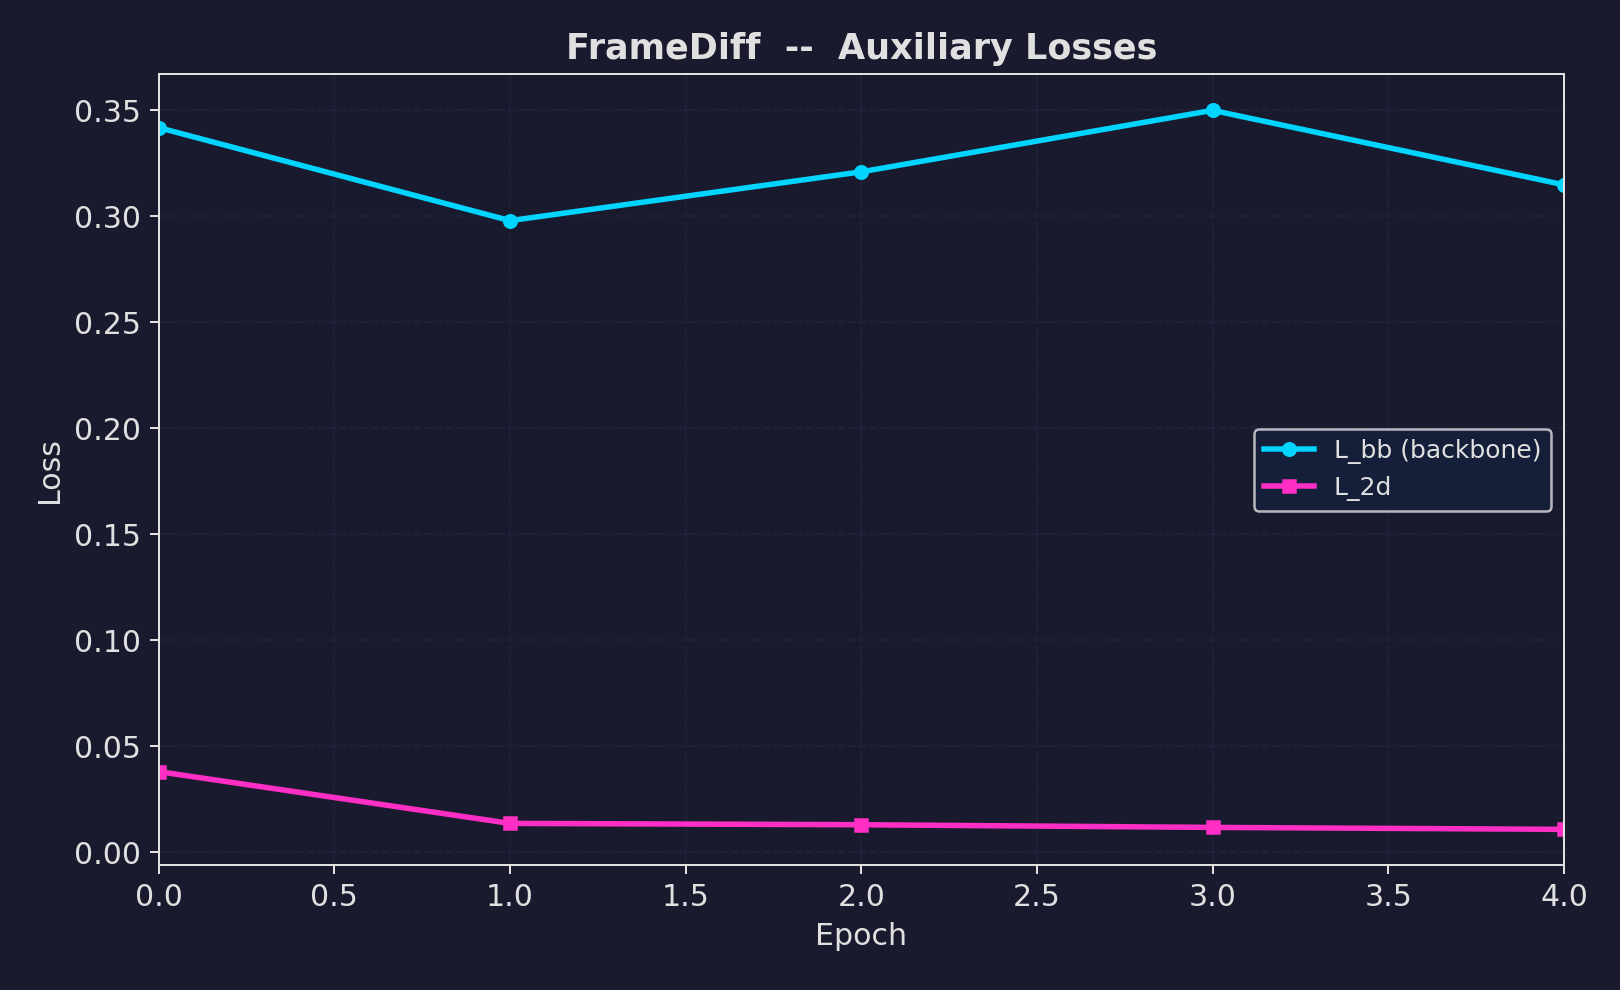
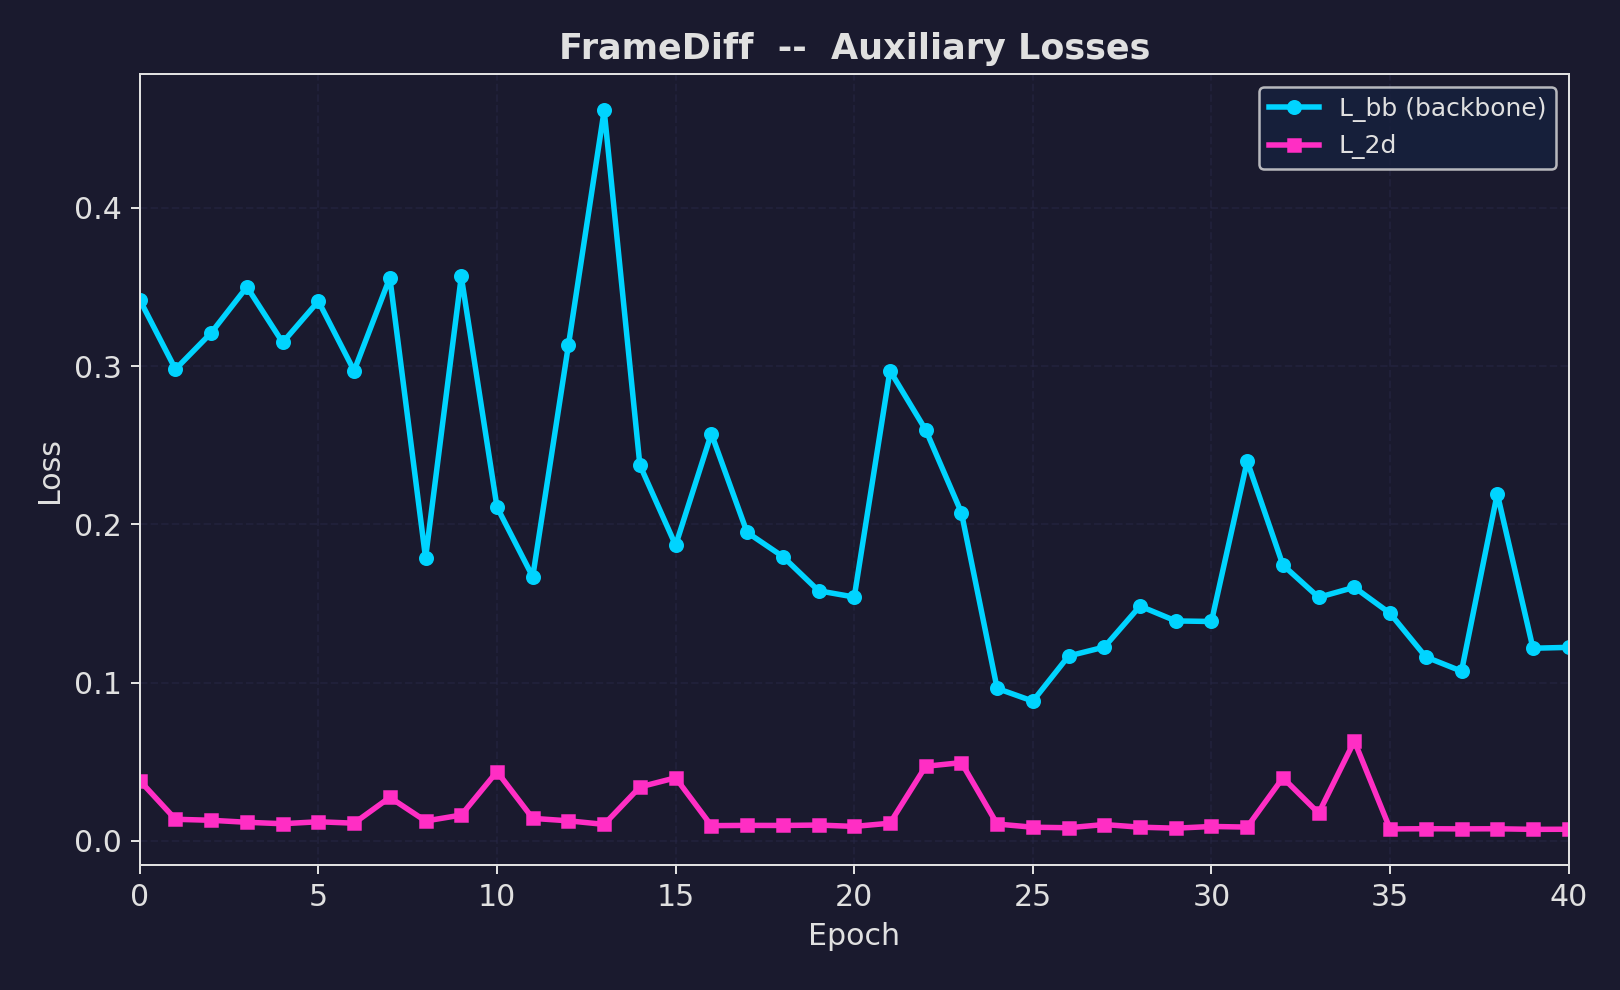
Update FrameDiff: 40 epochs, loss curves, first generation results

diff --git a/minifold.html b/minifold.html
@@ -268,18 +268,42 @@
         </thead>
         <tbody>
           <tr><td>0</td><td>0.630</td><td>0.446</td><td>1.171</td><td>7.02</td><td>64.3</td><td>0.867</td></tr>
-          <tr><td>1</td><td>0.479</td><td>0.400</td><td>0.957</td><td>6.02</td><td>60.1</td><td>0.793</td></tr>
-          <tr><td>2</td><td>0.467</td><td>0.220</td><td>0.770</td><td>5.92</td><td>139.6</td><td>0.573</td></tr>
-          <tr><td>3</td><td>0.460</td><td>0.151</td><td>0.701</td><td>5.83</td><td>163.2</td><td>0.522</td></tr>
-          <tr><td>4</td><td>0.450</td><td>0.145</td><td>0.676</td><td>5.76</td><td>163.6</td><td>0.525</td></tr>
           <tr><td>5</td><td>0.413</td><td>0.143</td><td>0.645</td><td>5.50</td><td>163.7</td><td>0.496</td></tr>
-          <tr><td>6</td><td>0.377</td><td>0.141</td><td>0.595</td><td>5.23</td><td>163.9</td><td>0.445</td></tr>
-          <tr style="font-weight:bold"><td>7</td><td>0.377</td><td>0.137</td><td>0.610</td><td>5.18</td><td>164.2</td><td>0.454</td></tr>
+          <tr><td>10</td><td>0.352</td><td>0.131</td><td>0.546</td><td>5.01</td><td>164.6</td><td>0.426</td></tr>
+          <tr><td>15</td><td>0.333</td><td>0.127</td><td>0.517</td><td>4.87</td><td>164.9</td><td>0.425</td></tr>
+          <tr><td>20</td><td>0.321</td><td>0.121</td><td>0.483</td><td>4.72</td><td>165.4</td><td>0.385</td></tr>
+          <tr><td>25</td><td>0.424</td><td>0.117</td><td>0.565</td><td>4.60</td><td>165.7</td><td>0.364</td></tr>
+          <tr><td>30</td><td>0.281</td><td>0.115</td><td>0.432</td><td>4.51</td><td>165.9</td><td>0.349</td></tr>
+          <tr><td>35</td><td>0.286</td><td>0.111</td><td>0.434</td><td>4.44</td><td>166.2</td><td>0.339</td></tr>
+          <tr style="font-weight:bold"><td>40</td><td>0.258</td><td>0.110</td><td>0.400</td><td>4.38</td><td>166.2</td><td>0.319</td></tr>
         </tbody>
       </table>
       </div>
       <p style="color:var(--text-secondary); font-size:13px; margin-top:8px; margin-bottom:0">
-        <em>Last updated: Mar 16, 2026 at 2:45 AM PST. Training ongoing (job 32675144).</em>
+        <em>Last updated: Mar 16, 2026 at 8:10 AM PST. 41 epochs complete, best val=0.319 (E32). Job hit 6h wall clock.</em>
+      </p>
+    </div>
+
+    <div class="timeline-section">
+      <h3 style="margin-top:0">First Generation Results (Epoch 32)</h3>
+      <p>Generated 16 backbones (8&times;L80, 4&times;L120, 4&times;L200) using 200-step DDPM reverse diffusion with self-conditioning.</p>
+      <div style="overflow-x:auto">
+      <table class="metrics-table" style="width:100%">
+        <thead>
+          <tr><th>Length</th><th>Samples</th><th>Mean Ca-Ca (A)</th><th>Ideal Ca-Ca</th><th>Rg (A)</th><th>Status</th></tr>
+        </thead>
+        <tbody>
+          <tr><td>80</td><td>8</td><td>5.2 &ndash; 9.0</td><td>3.8</td><td>53 &ndash; 85</td><td style="color:#f0ad4e">Coarse fold topology, local geometry needs work</td></tr>
+          <tr><td>120</td><td>4</td><td>5.8 &ndash; 10.9</td><td>3.8</td><td>70 &ndash; 90</td><td style="color:#f0ad4e">Extended chains, not yet compact</td></tr>
+          <tr><td>200</td><td>4</td><td>6.7 &ndash; 8.6</td><td>3.8</td><td>83 &ndash; 92</td><td style="color:#f0ad4e">Overly extended, needs more training</td></tr>
+        </tbody>
+      </table>
+      </div>
+      <p style="color:var(--text-secondary); font-size:13px; margin-top:8px; margin-bottom:0">
+        Ca-Ca bond lengths are ~1.5&ndash;2.5x the ideal 3.8 A, indicating the model has learned rough structure
+        but needs more training and better reverse diffusion (rotation sampling uses naive matrix interpolation
+        rather than geodesic SLERP on SO(3)). Next steps: resume training to 100+ epochs, implement proper
+        IGSO3 reverse SDE, evaluate with self-consistency (ProteinMPNN &rarr; ESMFold &rarr; TM-score).
       </p>
     </div>
 
